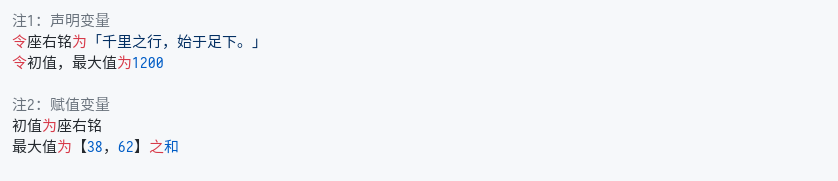
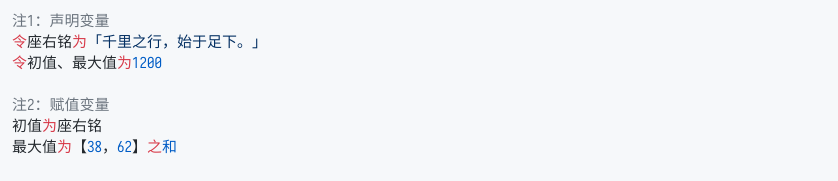
feat: update doc image

diff --git a/cmd/znt/cmds/gen_code_image.go b/cmd/znt/cmds/gen_code_image.go
@@ -86,7 +86,7 @@ func loadFontFace(fileName string, fontSize float64) (font.Face, error) {
 
 	fontFace := truetype.NewFace(fontT, &truetype.Options{
 		Size:    fontSize,
-		Hinting: font.HintingFull,
+		Hinting: font.HintingVertical,
 	})
 	return fontFace, nil
 }
